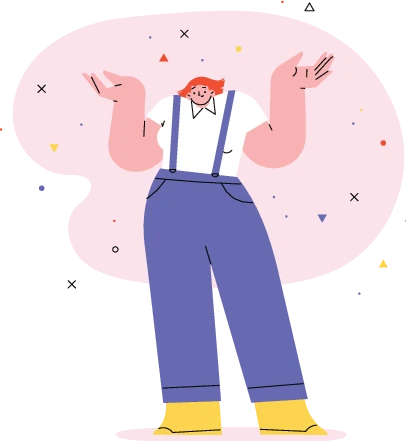
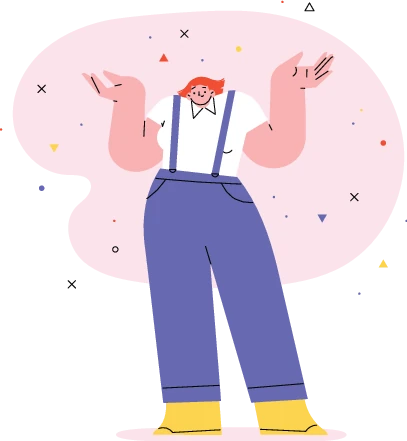
Imagenes ajustadas

diff --git a/testlab/frontend/src/app/features/dashboard/proyecto/proyecto-detail/proyecto-detail.html b/testlab/frontend/src/app/features/dashboard/proyecto/proyecto-detail/proyecto-detail.html
@@ -132,9 +132,8 @@
           </div>
         }
       } @else {
-        <div class="d-flex flex-column align-items-center justify-content-center">
-          <img [src]="imgComponent.randomImgNoResults" class="img-fluid" alt="Sin resultados" width="394" height="431">
-          <p class="fs-2 mt-5">Aquí no hay nada&hellip;</p>
+        <div class="d-flex flex-column align-items-center justify-content-center mb-5">
+          <img [src]="imgComponent.randomImgNoResults" class="img-fluid" alt="Sin resultados">
         </div>
       }
     </div>
@@ -195,9 +194,9 @@
           </div>
         }
       } @else {
-        <div class="d-flex flex-column align-items-center justify-content-center">
+        <div class="d-flex flex-column align-items-center justify-content-center mb-5">
           <img [src]="imgComponent.randomImgNoResults" class="img-fluid" alt="Sin resultados" width="394" height="431">
-          <p class="fs-2 mt-5">Aquí no hay nada&hellip;</p>
+          
         </div>
       }
     </div>
@@ -250,9 +249,9 @@
           </div>
         }
       } @else {
-        <div class="d-flex flex-column align-items-center justify-content-center">
+        <div class="d-flex flex-column align-items-center justify-content-center mb-5">
           <img [src]="imgComponent.randomImgNoResults" class="img-fluid" alt="Sin resultados" width="394" height="431">
-          <p class="fs-2 mt-5">Aquí no hay nada&hellip;</p>
+          
         </div>
       }
 
@@ -338,9 +337,9 @@
           </div>
         }
       } @else {
-        <div class="d-flex flex-column align-items-center justify-content-center">
+        <div class="d-flex flex-column align-items-center justify-content-center mb-5">
           <img [src]="imgComponent.randomImgNoResults" class="img-fluid" alt="Sin resultados" width="394" height="431">
-          <p class="fs-2 mt-5">Aquí no hay nada&hellip;</p>
+          
         </div>
       } 
     </div>
